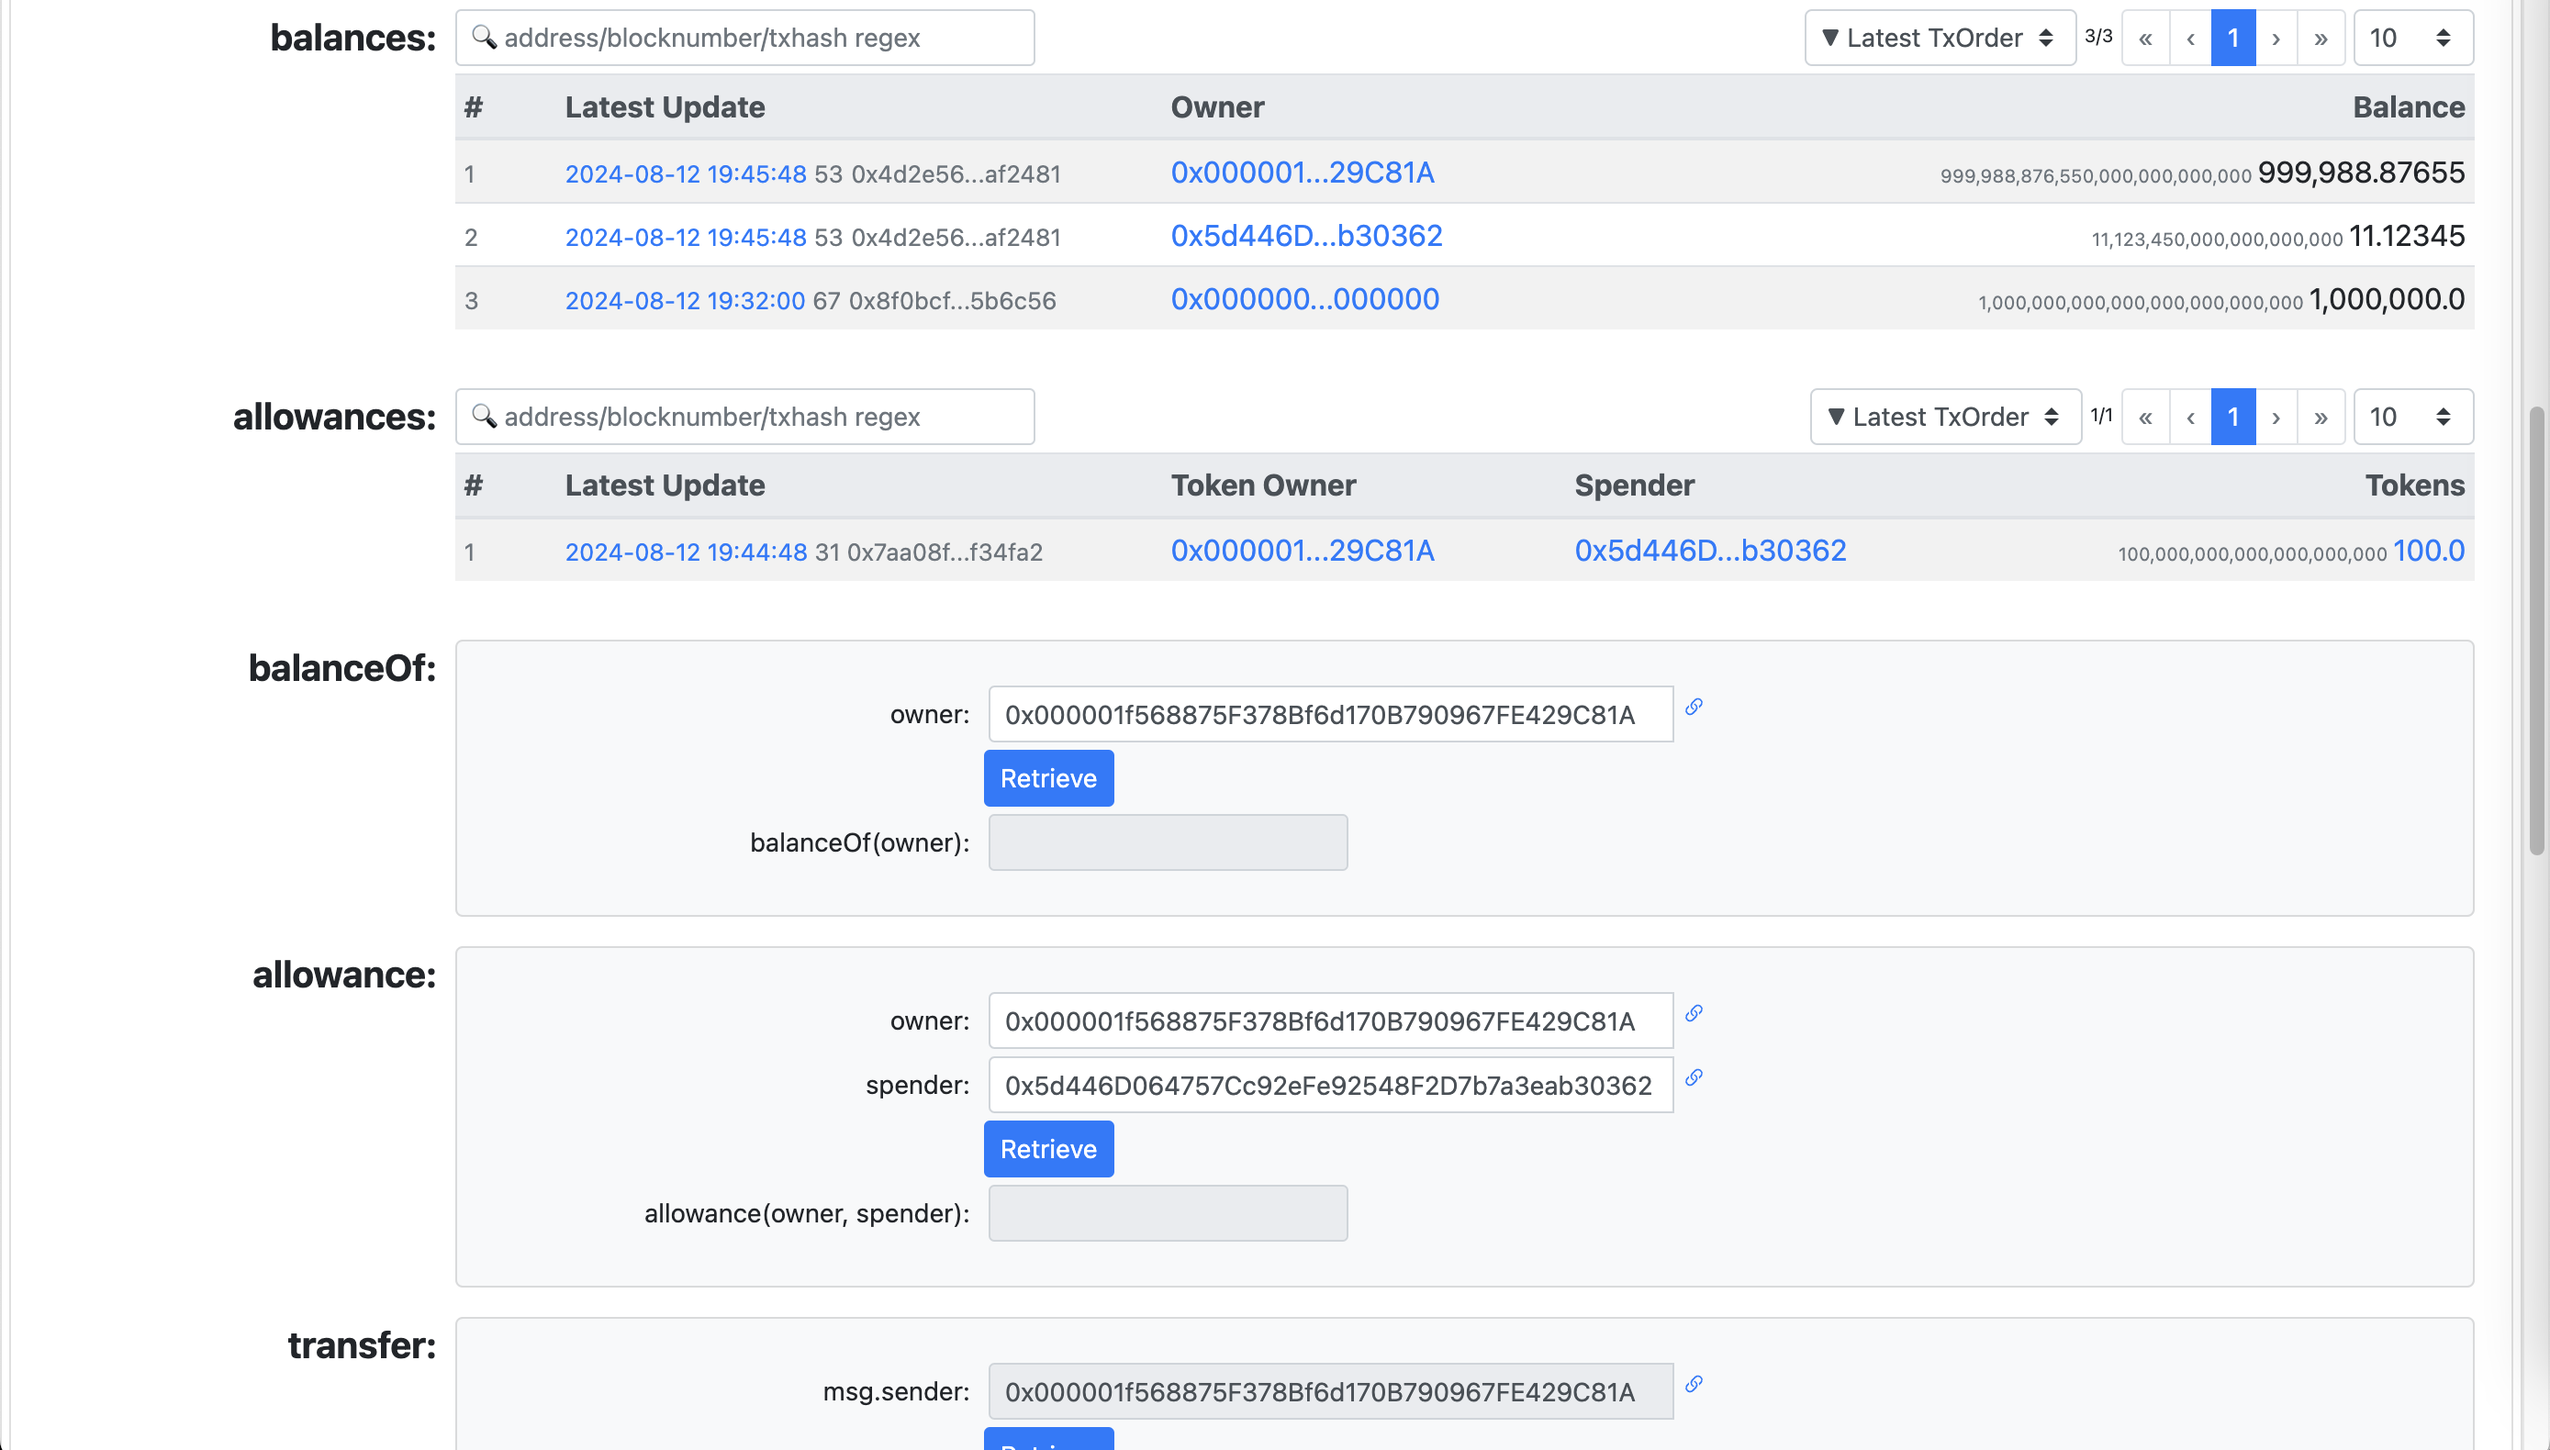
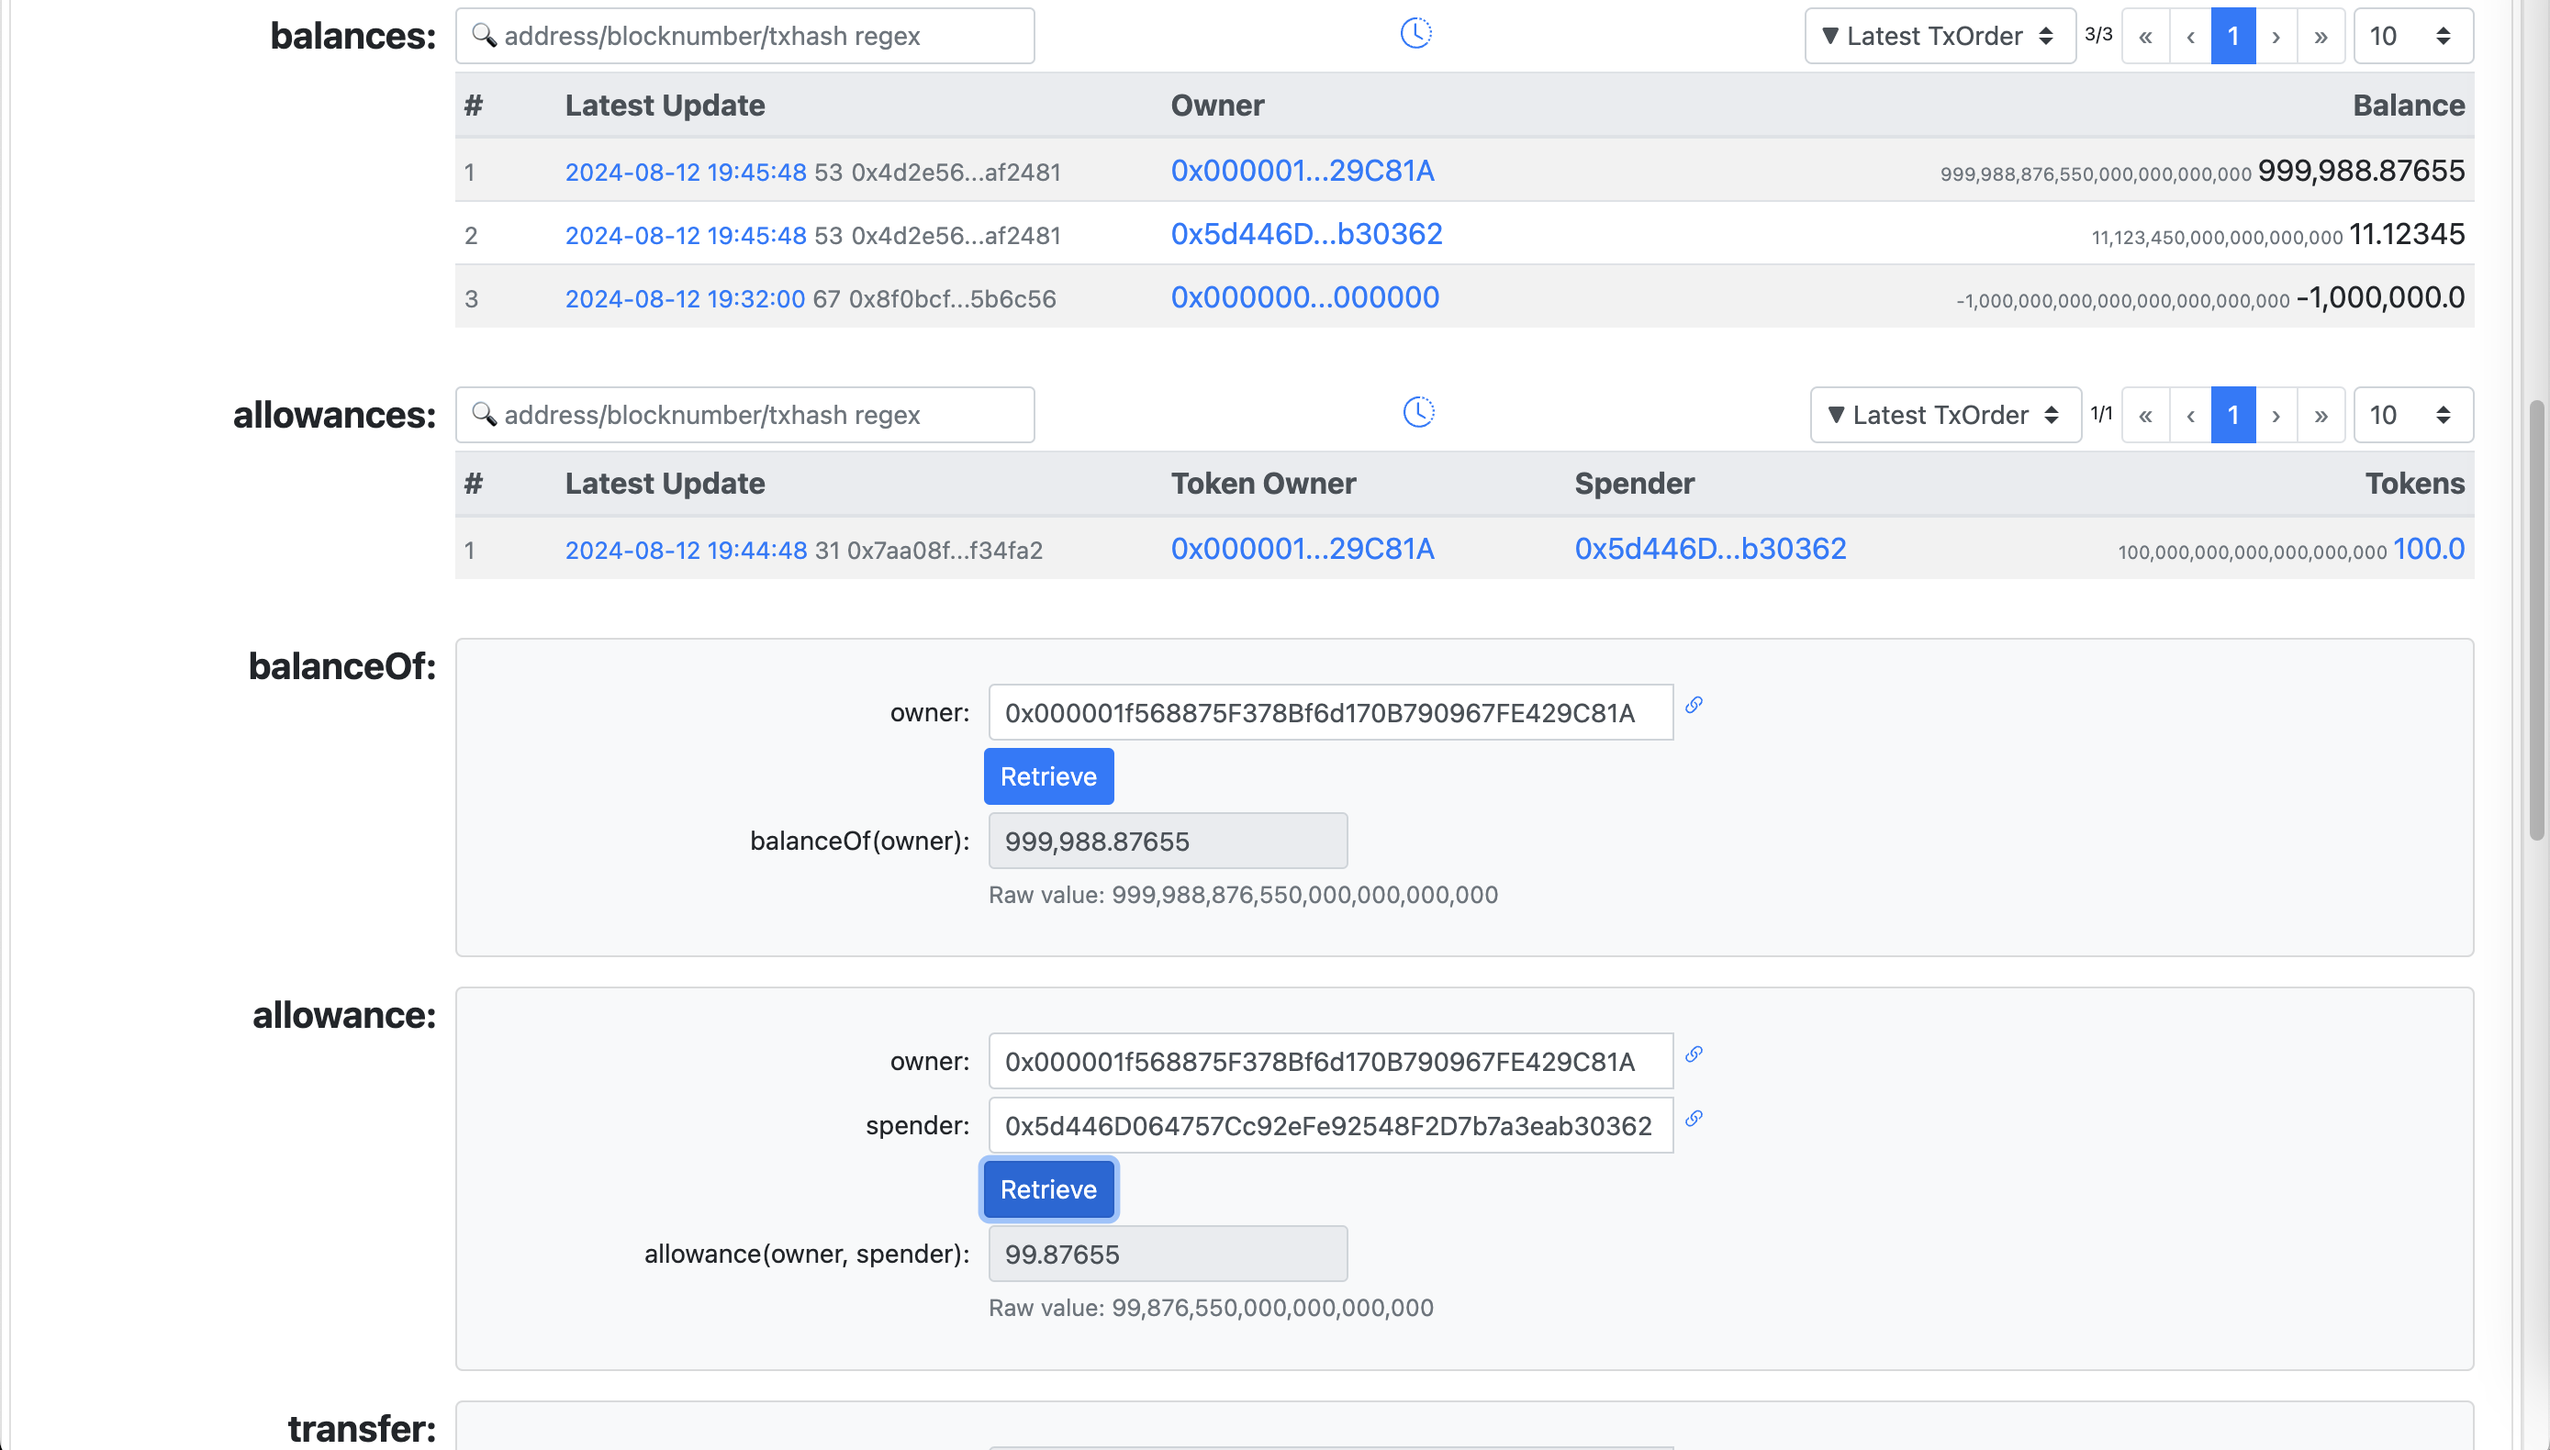
Balance calculation for (-)ves

diff --git a/docs/index.html b/docs/index.html
@@ -929,7 +929,7 @@
                     txIndex: event.txIndex,
                     txHash: event.txHash,
                     logIndex: event.logIndex,
-                    tokens: event.tokens,
+                    tokens: ethers.BigNumber.from(0).sub(event.tokens).toString(),
                   };
                 } else {
                   balanceCollator[event.from].blockNumber = event.blockNumber;
